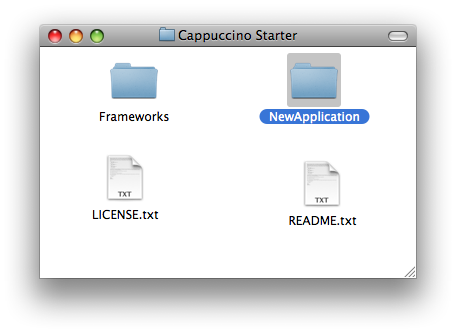
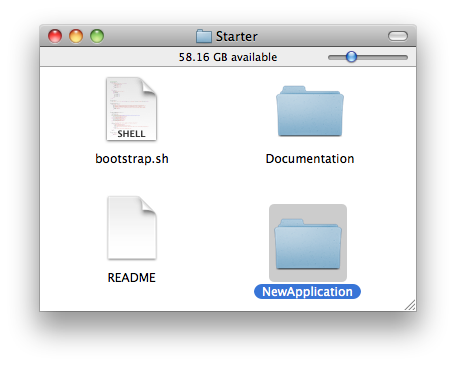
Bring in latest tutorial updates from cappuccino.org.

diff --git a/public/learn/tutorials/scrapbook-tutorial-1/index.php b/public/learn/tutorials/scrapbook-tutorial-1/index.php
@@ -28,7 +28,7 @@ include('../../../includes/header.php');
 
 <p>Before we jump into any serious programming, let's begin by getting a good idea of what we're building. The goal of the scrapbook application is to provide users with a place to arrange their photos into albums. These albums will have different themes and allow users to insert, scale, rotate, and crop their images. When done, they will be able to save and share their albums.</p>
 
-<p>As I mentioned earlier, we will be focusing on some of the core graphical aspects of this application right now, and saving most of the overall design decisions of this application for later. So the very first thing we're going to tackle is building a solid UI for scaling and cropping images. The plan is to present the user with a few controls in a heads up display which will allow them to manipulate selected images, and then go away when the user is done editing. You can see a working example of this <a href = "Scrapbook">here</a>. You should take a few minutes to play around with it and get an idea of what we will be building. You can also download the entire source of the application <a href = "Scrapbook-1.zip">here</a> if you prefer to follow along with the code.</p>
+<p>As I mentioned earlier, we will be focusing on some of the core graphical aspects of this application right now, and saving most of the overall design decisions of this application for later. So the very first thing we're going to tackle is building a solid UI for scaling and cropping images. The plan is to present the user with a few controls in a heads up display which will allow them to manipulate selected images, and then go away when the user is done editing. You can see a working example of this <a href="/learn/demos/Scrapbook/Part%201/index-deploy.html">here</a>. You should take a few minutes to play around with it and get an idea of what we will be building. You can also download the entire source of the application <a href = "/learn/demos/Scrapbook/Scrapbook-Part-1.zip">here</a> if you prefer to follow along with the code.</p>
                 
 <center><img src = "images/completed.png" width = "600" height = "454" /></center>
 
@@ -92,7 +92,7 @@ var HUDPanel = [[CPPanel alloc]
 var panelContentView = [HUDPanel contentView],
     centerX = (CGRectGetWidth([panelContentView bounds]) - 135.0) / 2.0;
 
-var scaleSlider = [[CPSlider alloc] initWithFrame:CGRectMake(centerX, 13.0, 135.0, 16.0)];
+var scaleSlider = [[CPSlider alloc] initWithFrame:CGRectMake(centerX, 13.0, 135.0, 24.0)];
 
 [scaleSlider setMinValue:50];
 [scaleSlider setMaxValue:150];
@@ -112,7 +112,7 @@ var scaleStartLabel = [self labelWithTitle:"50%"],
 [panelContentView addSubview:scaleEndLabel];
 
 rotationSlider = [[CPSlider alloc] initWithFrame:
-    CGRectMake(centerX, 43, 135, 16)];
+    CGRectMake(centerX, 43, 135, 24)];
 
 [rotationSlider setMinValue:0];
 [rotationSlider setMaxValue:360];
@@ -146,7 +146,7 @@ var rotationStartLabel = [self labelWithTitle:"0\u00B0"],
 }
 </code>
                 
-<p>This may seem daunting, but its really not that complex. Let's start by analyzing the <em>labelWithTitle:</em> method. It should look familiar, since its almost identical to the code that was in the original implementation of <em>applicationDidFinishLaunching:</em>. All we are doing is creating a text field, setting its text contents to be <strong>aTitle</strong>, setting its text color to white, and finally sizing it appropriately and returning it.</p>
+<p>This may seem daunting, but it&rsquo;s really not that complex. Let's start by analyzing the <em>labelWithTitle:</em> method. It should look familiar, since it&rsquo;s almost identical to the code that was in the original implementation of <em>applicationDidFinishLaunching:</em>. All we are doing is creating a text field, setting its text contents to be <strong>aTitle</strong>, setting its text color to white, and finally sizing it appropriately and returning it.</p>
                 
 <p>In the slider creation code we are creating two sliders: one to modify scale and another for rotation, so we only really need to go over half the code. We are making our sliders <strong>135 pixels</strong> wide, so begin by calculating the center position in our panel's content view. After we have this, We create a new slider at this position. We then set three important values for sliders: the minimum value, the maximum value, and the current value. The minimum value is what the left hand side of the slider represents, the maximum is what the right hand side represents, and the current value is simply where the knob of the slider currently resides. In this case of the <strong>scaleSlider</strong>, we want to be able to scale our photos from 50% to 150%, and obviously we want them to begin at 100%. With the rotationSlider, we want to go from 0 degrees to 360 degrees, and start at 0 degrees. To highlight these values, we create 2 labels for each slider to sit to the left and to the right of the sliders. So, your code should now look like this:</p>
                 
@@ -175,7 +175,7 @@ var rotationStartLabel = [self labelWithTitle:"0\u00B0"],
         - 135) / 2;
     
     var scaleSlider = [[CPSlider alloc]
-        initWithFrame:CGRectMake(centerX, 13, 135, 16)];
+        initWithFrame:CGRectMake(centerX, 13, 135, 24)];
     
     [scaleSlider setMinValue:50];
     [scaleSlider setMaxValue:150];
@@ -195,7 +195,7 @@ var rotationStartLabel = [self labelWithTitle:"0\u00B0"],
     [panelContentView addSubview:scaleEndLabel];
     
     rotationSlider = [[CPSlider alloc]
-        initWithFrame:CGRectMake(centerX, 43, 135, 16)];
+        initWithFrame:CGRectMake(centerX, 43, 135, 24)];
     
     [rotationSlider setMinValue:0];
     [rotationSlider setMaxValue:360];
@@ -259,7 +259,7 @@ var rotationStartLabel = [self labelWithTitle:"0\u00B0"],
             centerX = (CGRectGetWidth([contentView bounds]) - 135) / 2;
         
         scaleSlider = [[CPSlider alloc]
-            initWithFrame:CGRectMake(centerX, 13, 135, 16)];
+            initWithFrame:CGRectMake(centerX, 13, 135, 24)];
         
         [scaleSlider setMinValue:50];
         [scaleSlider setMaxValue:150];
@@ -279,7 +279,7 @@ var rotationStartLabel = [self labelWithTitle:"0\u00B0"],
         [contentView addSubview:scaleEndLabel];
         
         rotationSlider = [[CPSlider alloc]
-            initWithFrame:CGRectMake(centerX, 43, 135, 16)];
+            initWithFrame:CGRectMake(centerX, 43, 135, 24)];
         
         [rotationSlider setMinValue:0];
         [rotationSlider setMaxValue:360];
@@ -393,7 +393,7 @@ var rotationStartLabel = [self labelWithTitle:"0\u00B0"],
 @end
 </code>
             
-<p>Here we create the view as usual, but let the view know that it will be hosting a layer with the <em>setWantsLayer:</em> method, and adding the actual layer with <em>setLayer:</em>. We give the layer a background color, but need to call <em>setNeedsDisplay</em> for the layer to actuall show itself. In Cappuccino, you never explicitly tell views or layers to draw, instead you inform them that they need to do so. This is because Cappuccino coalesces and optimizes drawing.</p>
+<p>Here we create the view as usual, but let the view know that it will be hosting a layer with the <em>setWantsLayer:</em> method, and adding the actual layer with <em>setLayer:</em>. We give the layer a background color, but need to call <em>setNeedsDisplay</em> for the layer to actually show itself. In Cappuccino, you never explicitly tell views or layers to draw, instead you inform them that they need to do so. This is because Cappuccino coalesces and optimizes drawing.</p>
             
 <p>As we said earlier, we now need a pane in this page. Pane's hold images as well as storing the scale and rotation properties of the image it displays. We will be implementing panes as layers:</p>
             
@@ -631,7 +631,7 @@ var rotationStartLabel = [self labelWithTitle:"0\u00B0"],
 @end
 </code>
 
-<p>For now we are just going to use a default image for our pane, which you can download <a href = "Scrapbook/Resources/sample.jpg">here</a> and put into a folder called "Resources". We set the size of the _paneLayer with <em>setBounds</em>, and the position of the layer with a combination of <em>setAnchorPoint:</em> and <em>setPosition:</em>. This is because unlike <em>CPView</em>s, by default the <strong>position</strong> of a <em>CALayer</em> refers to the position of it's center point. To make the <strong>position</strong> refer to the top left corner, we have to specify an achor point of <strong>(0.0, 0.0)</strong>.</p>
+<p>For now we are just going to use a default image for our pane, which you can download <a href = "Scrapbook/Resources/sample.jpg">here</a> and put into a folder called "Resources". We set the size of the _paneLayer with <em>setBounds</em>, and the position of the layer with a combination of <em>setAnchorPoint:</em> and <em>setPosition:</em>. This is because unlike <em>CPView</em>s, by default the <strong>position</strong> of a <em>CALayer</em> refers to the position of its center point. To make the <strong>position</strong> refer to the top left corner, we have to specify an achor point of <strong>(0.0, 0.0)</strong>.</p>
         
 <h3>Wrapping Up</h3>
         
@@ -764,7 +764,7 @@ var PhotoInspectorSharedInstance    = nil;
 }
 </code>
             
-<p>As you can see, when we pass in a new pane layer, we first do a little bit of cleanup on our old pane layer if we have one. We tell it's corresponding page view that we are no longer editing, and then tell the new pane layer's page view that we are editing (thus dimming the border described above). We then position our window at the center of the pane.</p>
+<p>As you can see, when we pass in a new pane layer, we first do a little bit of cleanup on our old pane layer if we have one. We tell its corresponding page view that we are no longer editing, and then tell the new pane layer's page view that we are editing (thus dimming the border described above). We then position our window at the center of the pane.</p>
             
 <p>Let's actually make our two sliders useful now by giving them <strong>targets</strong> and <strong>actions</strong> in our <em>init</em> method after they are created:</p>
             

diff --git a/public/learn/tutorials/automatic-layout/index.php b/public/learn/tutorials/automatic-layout/index.php
@@ -40,7 +40,8 @@ include('../../../includes/header.php');
             <div style = "float:right; margin-right:20px;">
                 <h3>Resources</h3>
                 <ul>
-                    <li><a href = "AutomaticLayout.zip"><img src = "images/zip.png" align = "center" style = "padding-right:5px;"/>Download the sample code</a></li>
+                    <li><a href = "/learn/demos/AutomaticLayout/Alert-Window-Layout.zip"><img src = "images/zip.png" align = "center" style = "padding-right:5px;"/>Alert Window Sample Code</a></li>
+                    <li><a href = "/learn/demos/AutomaticLayout/iTunes-Layout.zip"><img src = "images/zip.png" align = "center" style = "padding-right:5px;"/>iTunes Layout Sample Code</a></li>
                 </ul>
             </div>
             
@@ -71,7 +72,7 @@ include('../../../includes/header.php');
         <div class="cl">&nbsp;</div>
         
         <div class="contentbody">
-        This is where the <strong>autoresizing flags</strong> in Cappuccino and automatic layout come in.  The central idea behind automatic layout is that relayout takes place in response to a parent view changing size.  Thus, you can think of automatic layout with autoresizing flags as a "recursive" process.  Instead of creating container views that are responsible for keeping their views appropriately arranged, autoresizing flags allow each each individual view to describe how it would like to resized and repositioned relative to the changes taking place in it's superview.  In this way, as each view changes size, the resizing and repositioning is "cascaded" down.  This does away with a lot of complexity of unecessary "manager" views and controllers that can make UI programming quite difficult.  The key to remember when using autoresizing flags is that the views in question do everything based solely on what happens to their superviews.  If you  keep this in mind, you will find that many seemingly complex layouts can be expressed quite easily.
+        This is where the <strong>autoresizing flags</strong> in Cappuccino and automatic layout come in.  The central idea behind automatic layout is that relayout takes place in response to a parent view changing size.  Thus, you can think of automatic layout with autoresizing flags as a "recursive" process.  Instead of creating container views that are responsible for keeping their views appropriately arranged, autoresizing flags allow each each individual view to describe how it would like to resized and repositioned relative to the changes taking place in it's superview.  In this way, as each view changes size, the resizing and repositioning is "cascaded" down.  This does away with a lot of complexity of uneccessary "manager" views and controllers that can make UI programming quite difficult.  The key to remember when using autoresizing flags is that the views in question do everything based solely on what happens to their superviews.  If you  keep this in mind, you will find that many seemingly complex layouts can be expressed quite easily.
         </div>
 
         <div class="cl">&nbsp;</div>
@@ -136,7 +137,7 @@ include('../../../includes/header.php');
         <h3>Automatic Repositioning</h3>
 
         <div class="contentbody">
-            Setting up how a view repoisitions itself is slightly more complex, as there are four different flags that control this behavior: CPViewMinXMargin, CPViewMaxXMargin, CPViewMinYMargin, and CPViewMaxYMargin.  These four flags represent the four regions around the view: left, right, top, and bottom, respectively.  By setting any one of these flags, you are specifying that you want this area to be "flexible", and stretch and shrink with the superview:
+            Setting up how a view repositions itself is slightly more complex, as there are four different flags that control this behavior: CPViewMinXMargin, CPViewMaxXMargin, CPViewMinYMargin, and CPViewMaxYMargin.  These four flags represent the four regions around the view: left, right, top, and bottom, respectively.  By setting any one of these flags, you are specifying that you want this area to be "flexible", and stretch and shrink with the superview:
         </div>
             
         <div class="cl">&nbsp;</div>

diff --git a/public/learn/tutorials/scrapbook-tutorial-2/index.php b/public/learn/tutorials/scrapbook-tutorial-2/index.php
@@ -31,7 +31,7 @@ include('../../../includes/header.php');
                     <h3>Overview</h3>
                     
                     <div class = "contentbody">
-                    This tutorial is the second entry in the Scrapbook series in which we will be building a full featured scrapbooking application.  In the <a href = "../scrapbook-tutorial-1">previous installment</a> we set up a basic foundation for our application and got our feet wet with Cappuccino graphics.  This tutorial will cover adding drag and drop to our application, and touch on a number of important Cappuccino topics in the process.  If you haven't done so already, you should <a href = "../scrapbook-tutorial-1/Scrapbook-1.zip">download the source</a> from Part I, since that is what we will be starting off with.  You can alternatively choose to <a href="Scrapbook-2.zip">download</a> the completed source for this tutorial as well and simple follow along with the code.
+                    This tutorial is the second entry in the Scrapbook series in which we will be building a full featured scrapbooking application.  In the <a href = "../scrapbook-tutorial-1">previous installment</a> we set up a basic foundation for our application and got our feet wet with Cappuccino graphics.  This tutorial will cover adding drag and drop to our application, and touch on a number of important Cappuccino topics in the process.  If you haven't done so already, you should <a href = "/learn/demos/Scrapbook/Scrapbook-Part-1.zip">download the source</a> from Part I, since that is what we will be starting off with.  You can alternatively choose to <a href="/learn/demos/Scrapbook/Scrapbook-Part-2.zip">download</a> the completed source for this tutorial as well and simple follow along with the code.
             </div>
             
             <div class="cl">&nbsp;</div>
@@ -45,8 +45,8 @@ include('../../../includes/header.php');
                     <div style = "float:right; margin-right:20px;">
                         <h3>Resources</h3>
                         <ul>
-                            <li><a href = "Scrapbook-2.zip"><img src = "images/zip.png" align = "center" style = "padding-right:5px;"/>Download the completed source</a></li>
-                            <li><a href = "Scrapbook-2/index.html"><img src = "images/sample.png" align = "center" style = "padding-right:5px;"/>See a working sample</a></li>
+                            <li><a href = "/learn/demos/Scrapbook/Scrapbook-Part-2.zip"><img src = "images/zip.png" align = "center" style = "padding-right:5px;"/>Download the completed source</a></li>
+                            <li><a href = "/learn/demos/Scrapbook/Part%202/index-deploy.html"><img src = "images/sample.png" align = "center" style = "padding-right:5px;"/>See a working sample</a></li>
                         </ul>
                     </div>
                     

diff --git a/public/learn/tutorials/getting-setup.php b/public/learn/tutorials/getting-setup.php
@@ -29,7 +29,7 @@ include('../../includes/header.php');
 
 <p>The browser is the most important part of the development cycle. Cappuccino apps target the browser just like Cocoa apps target Mac OS X. Choosing the right browser for your development cycle is a crucial step in the process.</p>
 
-<p>There's no one right answer to the question of which browser you should be using. There are three obvious contenders: Internet Explorer, Firefox, and Safari.</p>
+<p>There's no one right answer to the question of which browser you should be using. There are four obvious contenders: Firefox, Safari, Chrome, and Internet Explorer.</p>
 
 <h3>Firefox</h3>
 
@@ -55,6 +55,23 @@ You can leave a working copy of your application on a separate webserver or deve
 <p>It is also possible to configure Firefox 3 to behave similarly: <a href="http://wiki.github.com/280north/cappuccino/developing-locally-in-firefox-3">http://wiki.github.com/280north/cappuccino/developing-locally-in-firefox-3</a></p>
 
 <center><img src="images/inspector.png" alt="webkit inspector" /></center>
+
+<h3>Chrome <a name="chrome">&nbsp;</a></h3>
+
+<p>Google's <a href="http://www.google.com/chrome">Chrome</a> browser is mostly the same as Safari, since it uses the same rendering engine as Safari, WebKit. The major difference is the security policies in place.</p>
+
+<p>Unlike Safari, Chrome does not allow you to connect to remote hosts (violating the same origin policy) when running from file:///. Not only that, but the browser goes even further: XHR requests to any other file:/// address do not work when running from a local file. Because Cappuccino uses XHR requests to load your application, Chrome cannot run Cappuccino straight from the file system. Instead, you should run through a webserver (like Apache). You can <a href="http://code.google.com/p/chromium/issues/detail?id=41024">read more about this security policy</a> on Google's bug tracker.</p>
+
+<p>If you've installed the Cappuccino tools, then you also installed a program called Narwhal, our command line JavaScript environment. You can use Narwhal to create a server in your current directory with this command:</p>
+<pre><code>
+jackup -e "require('jack/file').File('.')" -E deployment</code></pre>
+
+<p>You may also need to install jack, which is as simple as running:</p>
+<pre>
+<code>
+tusk install jack
+</code>
+</pre>
 
 <h3>Internet Explorer</h3>
 

diff --git a/public/learn/tutorials/index.php b/public/learn/tutorials/index.php
@@ -31,7 +31,7 @@ include('../../includes/header.php');
                 <p>A great introduction to Objective-J.  Familiarity with JavaScript is recommended, prior knowledge of Objective-C not required.</p>
                 
                 <h2><a href="starter-tutorial.php">Downloading & Running the Sample Application</a></h2>
-                <p>Get the <a href="/starter">Cappuccino Starter</a> download, and then follow this simpe tutorial for running the sample application, and making a few simple changes.</p>
+                <p>Get the <a href="/starter">Cappuccino Starter</a> download, and then follow this simple tutorial for running the sample application, and making a few simple changes.</p>
 
                 <h2>Graphics</h2>
                 <p>Graphics are an important component of just about any UI application, the following tutorials cover different aspects of Cappuccino UI programming:</p>
@@ -39,7 +39,7 @@ include('../../includes/header.php');
                 <ul>
                     <li>
                         <h3><a href= "automatic-layout">Automatic Layout Support</a></h3>
-                        <p>This tutorial covers Cappuccino's powerful system of automatic resizing and repositioning support for creating dynamic layouts easily and quickly.</p>
+                        <p>This tutorial covers Cappuccino's powerful system for automatically resizing and repositioning views to creating dynamic layouts easily and quickly.</p>
                     </li>
                 </ul>
                     
@@ -71,6 +71,8 @@ include('../../includes/header.php');
                     <p>Overview of the debugging features of WebKit/Safari, and how to use them with Cappuccino and Objective-J, by Andre Angelantoni.</p></li>
                     
                     <li><h3><a href="http://cappuccinocasts.com/">Cappuccino Casts</a></h3><p>Video screen casts of going through Cappuccino &amp; Objective-J tutorials, hosted by Thomas Balthazar.</p></li>
+                    
+                    <li><h3><a href="http://osaficionado.com/series/chartplotter/">ChartPlotter</a></h3><p>A demo application with follow along tutorials.</p></li>
                 </ul>
             </div>
             

diff --git a/public/learn/tutorials/objective-j-tutorial.php b/public/learn/tutorials/objective-j-tutorial.php
@@ -150,7 +150,7 @@ var joe = [Person personWithName:"Joe"];
 
 <h2>Importing Code</h2>
 
-<p>One commonly desired technique missing from JavaScript is the ability to import code in the same way that languages like Java or C allow. To that affect, Objective-J adds the @import statement:</p>
+<p>One commonly desired technique missing from JavaScript is the ability to import code in the same way that languages like Java or C allow. To that effect, Objective-J adds the @import statement:</p>
 
 <code>
 @import &lt;Foundation/CPObject.j&gt;
@@ -199,7 +199,11 @@ var reversed = [myString reverse];
 alert(reversed);  // alerts "dlrow olleh"
 </code>
 
-<p>The syntax for the category is @implementation, followed by the class you're adding to, followed by the name of your category in parentheses. Any methods added before the @end keyword will be part of the category. Note that you can't add instance variables via categories, though due to the dynamic nature of JavaScript objects it's possible to add one by </p>
+<p>The syntax for the category is @implementation, followed by the class you're adding to, followed by the name of your category in parentheses. Any methods added before the @end keyword will be part of the category. Note that you can't add instance variables via categories, though due to the dynamic nature of JavaScript objects it's possible to add one by simply modifying the object's properties directly:</p>
+
+<code>
+instance.newProperty = "foo";
+</code>
 
 <p>It's interesting to note some of the techniques used in the implementation of the reverse method above. For example, reversedString is declared just like any typical JavaScript string. This is thanks to a technique called toll-free bridging which allows any JavaScript object like an array or a string to act both as a JavaScript object and a Cappuccino object at the same time. It responds to CPString methods like "length" and "characterAtIndex:", as well as existing JavaScript methods and operators such as "+".</p>
 

diff --git a/public/learn/tutorials/starter-tutorial.php b/public/learn/tutorials/starter-tutorial.php
@@ -22,7 +22,7 @@ include('../../includes/header.php');
             
                 <h1>Downloading & Running the Sample Application</h1>
             
-<p>If you haven't already, download the <a href="/starter">Cappuccino Starter package</a>. This zip file includes a copy of the Cappuccino Frameworks, a sample application (NewApplication), licensing info, and a README.</p>
+<p>If you haven't already, download the <a href="/starter">Cappuccino Starter package</a>. This zip file includes a sample application (NewApplication), licensing info, a script you can run later to download all the Cappuccino tools, and a README.</p>
 
 <center><img src="images/new-application.png" alt="open new application" /></center>
 
@@ -30,6 +30,8 @@ include('../../includes/header.php');
 <p>Once you've downloaded and unzipped the Cappuccino Starter package, open up the <em>NewApplication</em> folder, and locate the <em>index.html</em> file. Now, simply open that file in your favorite web browser by double-clicking it, or just by dragging it on top of your browser application. You should end up with something that looks like this (in Safari):</p>
 
 <center><img src="images/new-app-running-safari.png" alt="new application running in safari" /></center>
+
+<p><b>Chrome Users please note</b> that you'll need to run Cappuccino through a web server, rather than through the filesystem directly as described in the paragraph above. You can read more <a href="/learn/tutorials/getting-setup.php#chrome">here</a>.</p>
 
 <h3>The Code</h3>
 <p>The source behind this sample application is startlingly simple. Although there are a few files, the only one we're interested in right now is <em>AppController.j</em>. The others are necessary, but you don't need to modify them to work on your application.</p>
